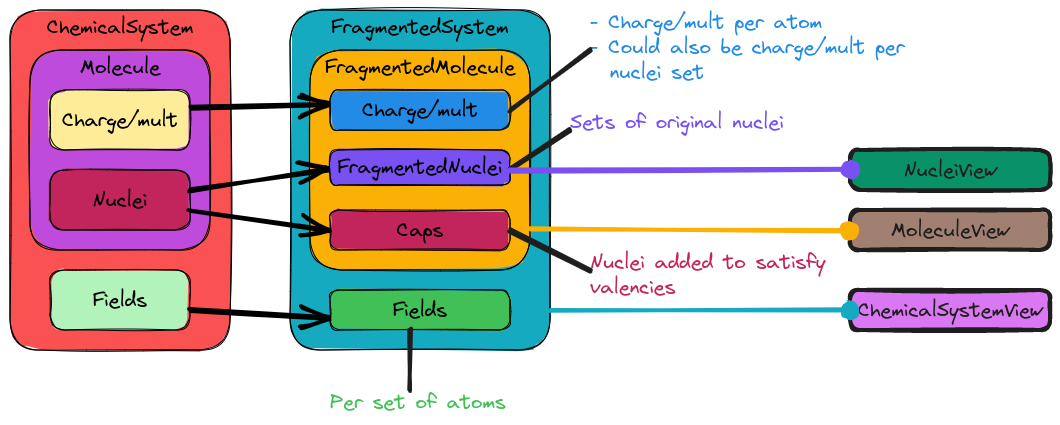
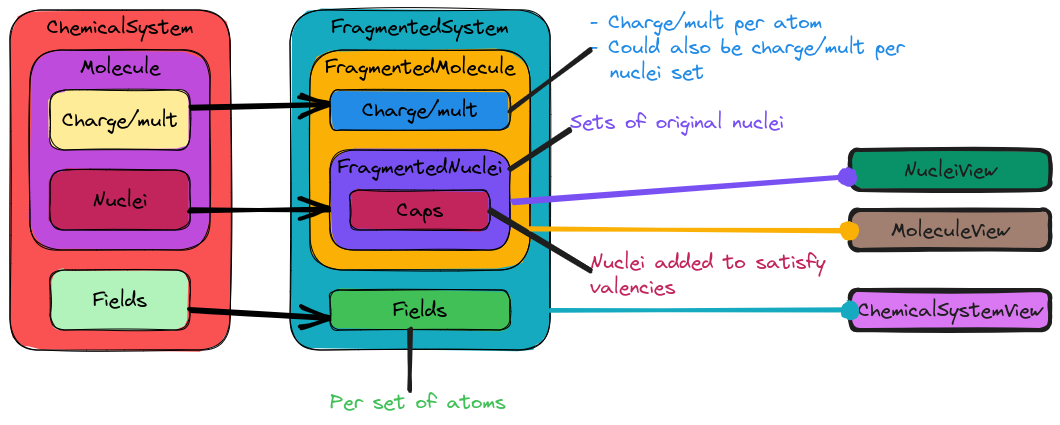
back up new design notes [skip ci\

Changed region(s): [[0.1557, 0.3365, 0.8094, 0.6424]]

diff --git a/docs/source/developer/design/chemistry/fragmented_nuclei.rst b/docs/source/developer/design/chemistry/fragmented_nuclei.rst
@@ -85,3 +85,59 @@ Empty states.
    The default constructed object should represent a truly empty state, such a
    state does not even have a supersystem set. There is also an empty state
    where the supersystem is set, but the object may not contain any fragments.
+
+.. _fn_caps:
+
+Caps.
+   As a direct result of the :ref:`fs_generality` consideration raised for the
+   ``FragmentedSystem`` class, the  ``FragmenteNuclei`` object may contain
+   caps. Most caps contain a nucleus and one or more electrons. The
+   ``FragmentedNuclei`` class is responsible for the nucleus of the cap.
+
+   - Determining cap placement requires a ``FragmentedNuclei`` object so we
+     know which nuclei are in which sets. The caps must thus be in addition to
+     the ``FragmentedNuclei`` class.
+
+***********************
+FragmentedNuclei Design
+***********************
+
+.. _fig_fragmented_nuclei_design:
+
+.. figure:: assets/fragmented_nuclei.png
+   :align: center
+
+   The classes involved in implementing the ``FragmentedNuclei`` component.
+
+To a large extent the ``FragmentedNuclei`` class parallels the ``Nuclei``
+class. More specifically it is the base of the ``FragmentedSystem`` hierarchy
+and worries about how the ``Nuclei`` object of the original system is
+fragmented.
+
+Capping requires a ``FragmentedNuclei`` object to cap. For this reason, we
+put the ``CapSet`` in a class derived from ``FragmentedNuclei``, 
+``CappedFragmentedNuclei``.
+
+*************
+Proposed APIs
+*************
+
+The next code block summarizes how we expect users to fill in a 
+``FragmentedNuclei`` and a ``CappedFragmentedNuclei`` object.
+
+.. code-block:: c++
+
+   Nuclei nukes           = get_nuclei(); //Usually defined by the end-user
+   FragmentedNuclei frags = fragment_nuclei_object(nukes);  
+   CapSet caps            = cap_fragmented_nuclei(frags);
+   CappedFragmentedNuclei capped_frags(frags, caps);
+
+************************
+FragmentedNuclei Summary
+************************
+
+:ref:`fn_caps`
+   The ``FragmentedNuclei`` class will contain a ``Caps`` object which
+   represents the broken bonds and what they are replaced with. Discussion of
+   the design of the ``Caps`` class can be found 
+   :ref:`designing_the_caps_class`.

diff --git a/docs/source/developer/design/chemistry/fragmented_molecule.rst b/docs/source/developer/design/chemistry/fragmented_molecule.rst
@@ -65,12 +65,8 @@ Charge and multiplicity.
 
 Caps.
    As a direct result of the :ref:`fs_generality` consideration raised for the
-   ``FragmentedSystem`` class, the  ``FragmentedMolecule`` class must be able 
-   to handle fragmentation patterns which break covalent-bonds. The usual way
-   of dealing with severed bonds is by capping. 
-
-   - Computing caps only requires a FragmentedNuclei object (and the Nuclei)
-     object it refers back to.
+   ``FragmentedSystem`` class, the  ``FragmenteNuclei`` object may contain
+   caps. The ``FragmentedMolecule`` must be able to add electrons to the caps.
 
 .. _fm_type_dispatch:
 
@@ -101,7 +97,7 @@ Below we summarize how our design addresses the considerations raised above.
    fragment.
 
 :ref:`fm_caps`
-   The ``FragmentedMolecule`` class will contain a ``Caps`` object which
+   The ``FragmentedNuclei`` class will contain a ``Caps`` object which
    represents the broken bonds and what they are replaced with. Discussion of
    the design of the ``Caps`` class can be found 
    :ref:`designing_the_caps_class`.

diff --git a/docs/source/developer/design/chemistry/fragmented_system.rst b/docs/source/developer/design/chemistry/fragmented_system.rst
@@ -169,7 +169,9 @@ subsets of ``Nuclei``. As shown in :numref:`fig_fragmented_system_design` the
 actual elements are ``NucleiView`` objects, which behave like a ``Nuclei``
 object, but do not own their state. As users create fragments from the 
 ``Nuclei`` class they add them to the ``FragmentedNuclei`` object, which tracks
-them.
+them. The ``Caps`` object is needed to deal with severed
+valencies.
+
 
 FragmentedMolecule Class
 ========================
@@ -180,8 +182,7 @@ As shown in :numref:`fig_fragmented_system_design` the ``FragmentedMolecule``
 class has three components: a ``FragmentedNuclei`` object, the caps for each
 element in the ``FragmentedNuclei`` object, and a mapping from
 the elements of the ``FragmentedNuclei`` to their respective 
-charge/multiplicities. The ``Caps`` object is needed to deal with severed
-valencies.
+charge/multiplicities. 
 
 FragmentedSystem Class
 ======================
